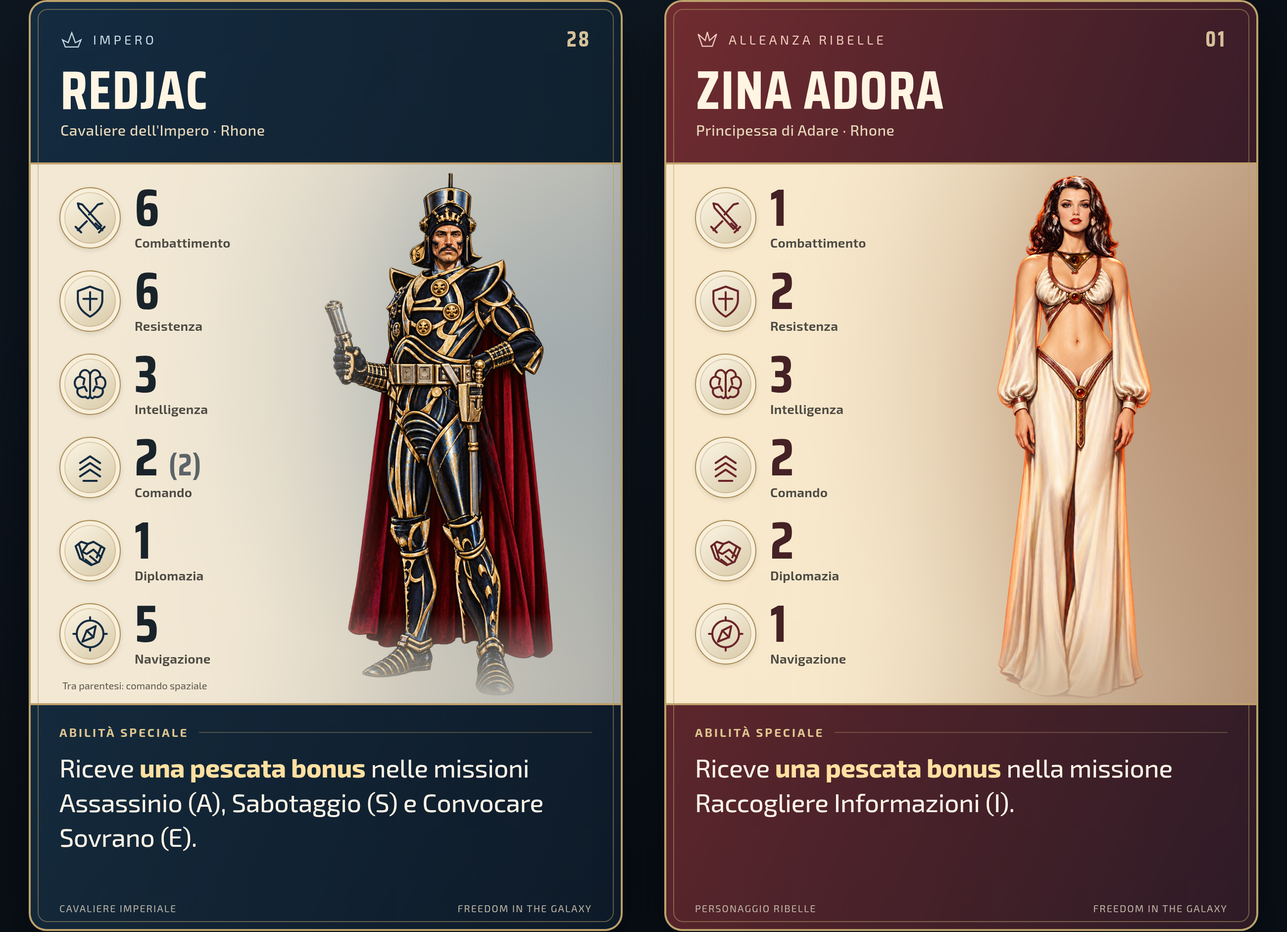
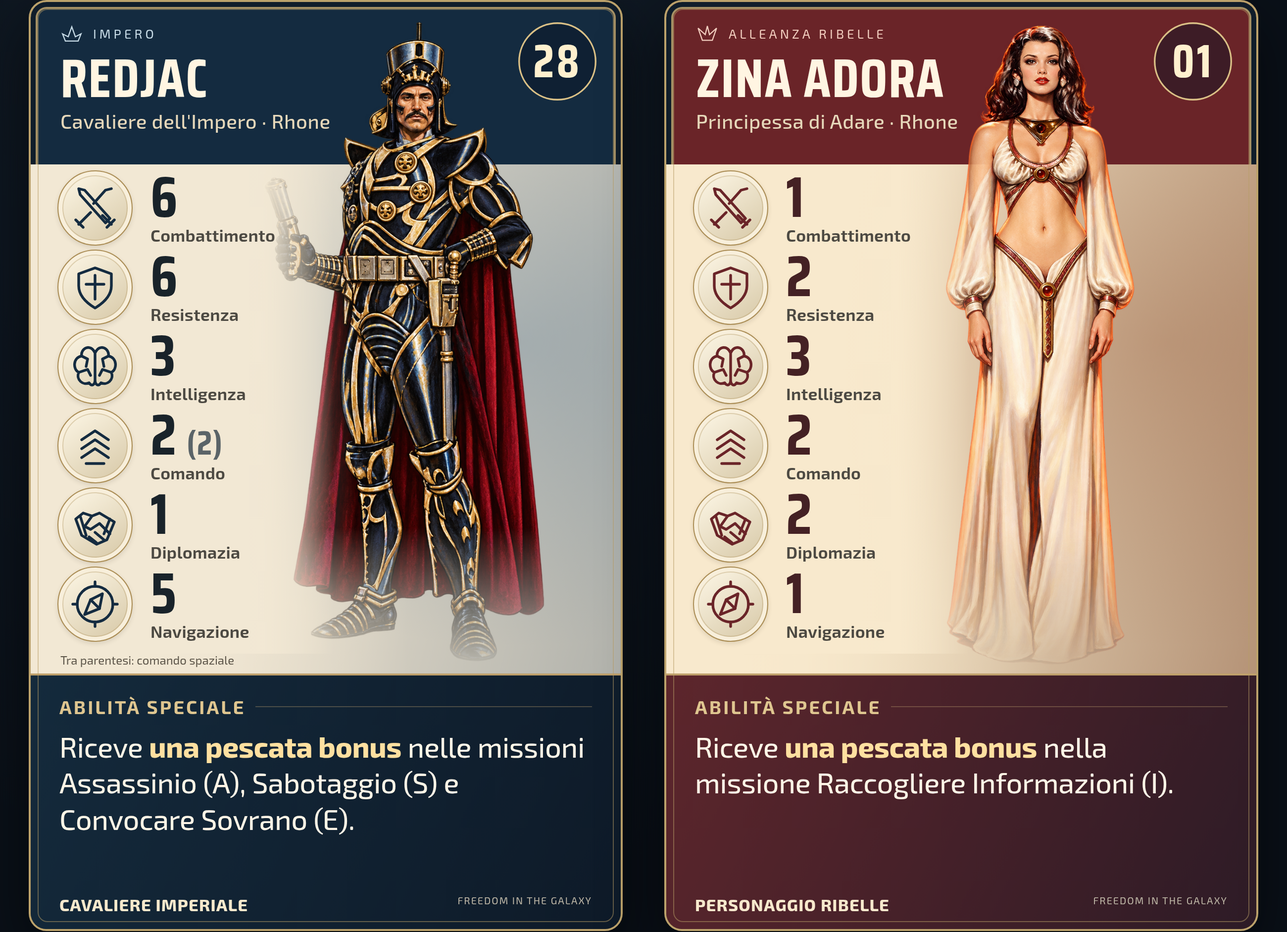
[pubblica] Ingrandisce icone e testi delle carte ed estende le figure

diff --git a/reborn/carte/index.html b/reborn/carte/index.html
@@ -1,7 +1,7 @@
-<!doctype html><html lang="it"><head><meta charset="utf-8"><meta name="viewport" content="width=device-width,initial-scale=1"><link rel="icon" href="data:,"><title>Carte personaggio · Reborn</title><link rel="stylesheet" href="cards.css?v=33281847b227"></head><body><main class="page"><header class="page-head"><div><div class="eyebrow">Freedom in the Galaxy · Reborn</div><h1>Le carte personaggio</h1></div><p>Due esempi della nuova veste grafica.<br>Valori e abilità delle carte del gioco.</p></header><div class="pair"><div class="card-shell"><article class="card imperial" id="redjac" aria-label="Carta di Redjac">
-<header class="card-top"><div class="faction-line"><svg class="faction-symbol" viewBox="0 0 32 32" aria-hidden="true"><path d="M3 17l8 4 5-14 5 14 8-4-4 10H7z"/></svg><span>Impero</span><span class="card-number">28</span></div><h2 class="card-name">Redjac</h2><div class="card-title">Cavaliere dell&#x27;Impero · Rhone</div></header>
-<div class="hero"><img class="figure" src="assets/redjac.png" alt="Redjac, figura intera"><ul class="stats"><li class="stat" data-stat="combattimento" aria-label="Combattimento 6"><span class="stat-icon"><svg viewBox="0 0 32 32" aria-hidden="true"><path d="M5 3l4 1 17 19-3 3L6 7zM3 24l5 5m-3-2 6-6M27 3l-4 1-8 9m-2 6L6 26m23-2-5 5m3-2-6-6"/></svg></span><span class="stat-text"><span class="stat-value">6</span><span class="stat-label">Combattimento</span></span></li><li class="stat" data-stat="resistenza" aria-label="Resistenza 6"><span class="stat-icon"><svg viewBox="0 0 32 32" aria-hidden="true"><path d="M16 3l11 4v8c0 7-6 12-11 15C11 27 5 22 5 15V7z"/><path d="M16 8v16M10 14h12"/></svg></span><span class="stat-text"><span class="stat-value">6</span><span class="stat-label">Resistenza</span></span></li><li class="stat" data-stat="intelligenza" aria-label="Intelligenza 3"><span class="stat-icon"><svg viewBox="0 0 32 32" aria-hidden="true"><path d="M16 7c-3-7-10-3-9 2-6 1-6 9-2 11-2 5 3 9 7 7 2 3 4 1 4-2V7zM16 7c3-7 10-3 9 2 6 1 6 9 2 11 2 5-3 9-7 7-2 3-4 1-4-2"/><path d="M7 9l4 2-1 5M5 20l6-2 2 4M25 9l-4 2 1 5M27 20l-6-2-2 4"/></svg></span><span class="stat-text"><span class="stat-value">3</span><span class="stat-label">Intelligenza</span></span></li><li class="stat" data-stat="comando" aria-label="Comando 2, comando spaziale 2"><span class="stat-icon"><svg viewBox="0 0 32 32" aria-hidden="true"><path d="M7 12l9-6 9 6M7 18l9-6 9 6M7 24l9-6 9 6"/><path d="M10 28h12"/></svg></span><span class="stat-text"><span class="stat-value">2<span class="space-command">(2)</span></span><span class="stat-label">Comando</span></span></li><li class="stat" data-stat="diplomazia" aria-label="Diplomazia 1"><span class="stat-icon"><svg viewBox="0 0 32 32" aria-hidden="true"><path d="M3 12l5-4 6 2 5-2 10 6-5 12-7 3-10-6zM14 10l-5 7 4 2 6-4 7 7M6 10l4 13M26 12l-4 10M12 24l5 4M16 21l6 5"/></svg></span><span class="stat-text"><span class="stat-value">1</span><span class="stat-label">Diplomazia</span></span></li><li class="stat" data-stat="navigazione" aria-label="Navigazione 5"><span class="stat-icon"><svg viewBox="0 0 32 32" aria-hidden="true"><circle cx="16" cy="16" r="12"/><path d="M21 9l-2 10-10 4 4-10zM16 1v3m0 24v3M1 16h3m24 0h3"/><path d="M13 13l6 6"/></svg></span><span class="stat-text"><span class="stat-value">5</span><span class="stat-label">Navigazione</span></span></li></ul><div class="command-note">Tra parentesi: comando spaziale</div></div>
+<!doctype html><html lang="it"><head><meta charset="utf-8"><meta name="viewport" content="width=device-width,initial-scale=1"><link rel="icon" href="data:,"><title>Carte personaggio · Reborn</title><link rel="stylesheet" href="cards.css?v=eb22ec5dc598"></head><body><main class="page"><header class="page-head"><div><div class="eyebrow">Freedom in the Galaxy · Reborn</div><h1>Le carte personaggio</h1></div><p>Due esempi della nuova veste grafica.<br>Valori e abilità delle carte del gioco.</p></header><div class="pair"><div class="card-shell"><article class="card imperial" id="redjac" aria-label="Carta di Redjac">
+<header class="card-top"><div class="faction-line"><svg class="faction-symbol" viewBox="0 0 32 32" aria-hidden="true"><path d="M3 17l8 4 5-14 5 14 8-4-4 10H7z"/></svg><span>Impero</span><svg class="card-number" viewBox="0 0 100 100" role="img" aria-label="Carta numero 28"><circle cx="50" cy="50" r="46"/><text x="50" y="50" text-anchor="middle">28</text></svg></div><h2 class="card-name">Redjac</h2><div class="card-title">Cavaliere dell&#x27;Impero · Rhone</div></header>
+<img class="figure" src="assets/redjac.png" alt="Redjac, figura intera"><div class="hero"><ul class="stats"><li class="stat" data-stat="combattimento" aria-label="Combattimento 6"><span class="stat-icon"><svg viewBox="0 0 32 32" aria-hidden="true"><path d="M5 3l4 1 17 19-3 3L6 7zM3 24l5 5m-3-2 6-6M27 3l-4 1-8 9m-2 6L6 26m23-2-5 5m3-2-6-6"/></svg></span><span class="stat-text"><span class="stat-value">6</span><span class="stat-label">Combattimento</span></span></li><li class="stat" data-stat="resistenza" aria-label="Resistenza 6"><span class="stat-icon"><svg viewBox="0 0 32 32" aria-hidden="true"><path d="M16 3l11 4v8c0 7-6 12-11 15C11 27 5 22 5 15V7z"/><path d="M16 8v16M10 14h12"/></svg></span><span class="stat-text"><span class="stat-value">6</span><span class="stat-label">Resistenza</span></span></li><li class="stat" data-stat="intelligenza" aria-label="Intelligenza 3"><span class="stat-icon"><svg viewBox="0 0 32 32" aria-hidden="true"><path d="M16 7c-3-7-10-3-9 2-6 1-6 9-2 11-2 5 3 9 7 7 2 3 4 1 4-2V7zM16 7c3-7 10-3 9 2 6 1 6 9 2 11 2 5-3 9-7 7-2 3-4 1-4-2"/><path d="M7 9l4 2-1 5M5 20l6-2 2 4M25 9l-4 2 1 5M27 20l-6-2-2 4"/></svg></span><span class="stat-text"><span class="stat-value">3</span><span class="stat-label">Intelligenza</span></span></li><li class="stat" data-stat="comando" aria-label="Comando 2, comando spaziale 2"><span class="stat-icon"><svg viewBox="0 0 32 32" aria-hidden="true"><path d="M7 12l9-6 9 6M7 18l9-6 9 6M7 24l9-6 9 6"/><path d="M10 28h12"/></svg></span><span class="stat-text"><span class="stat-value">2<span class="space-command">(2)</span></span><span class="stat-label">Comando</span></span></li><li class="stat" data-stat="diplomazia" aria-label="Diplomazia 1"><span class="stat-icon"><svg viewBox="0 0 32 32" aria-hidden="true"><path d="M3 12l5-4 6 2 5-2 10 6-5 12-7 3-10-6zM14 10l-5 7 4 2 6-4 7 7M6 10l4 13M26 12l-4 10M12 24l5 4M16 21l6 5"/></svg></span><span class="stat-text"><span class="stat-value">1</span><span class="stat-label">Diplomazia</span></span></li><li class="stat" data-stat="navigazione" aria-label="Navigazione 5"><span class="stat-icon"><svg viewBox="0 0 32 32" aria-hidden="true"><circle cx="16" cy="16" r="12"/><path d="M21 9l-2 10-10 4 4-10zM16 1v3m0 24v3M1 16h3m24 0h3"/><path d="M13 13l6 6"/></svg></span><span class="stat-text"><span class="stat-value">5</span><span class="stat-label">Navigazione</span></span></li></ul><div class="command-note">Tra parentesi: comando spaziale</div></div>
 <section class="ability"><h3 class="ability-label">ABILITÀ SPECIALE</h3><p class="ability-text">Riceve <strong>una pescata bonus</strong> nelle missioni Assassinio (A), Sabotaggio (S) e Convocare Sovrano (E).</p><div class="card-meta"><span>Cavaliere imperiale</span><span>Freedom in the Galaxy</span></div></section></article></div><div class="card-shell"><article class="card rebel" id="zina-adora" aria-label="Carta di Zina Adora">
-<header class="card-top"><div class="faction-line"><svg class="faction-symbol" viewBox="0 0 32 32" aria-hidden="true"><path d="M3 9l10 9 3-12 3 12 10-9-6 17H9z"/></svg><span>Alleanza ribelle</span><span class="card-number">01</span></div><h2 class="card-name">Zina Adora</h2><div class="card-title">Principessa di Adare · Rhone</div></header>
-<div class="hero"><img class="figure" src="assets/zina-adora.png" alt="Zina Adora, figura intera"><ul class="stats"><li class="stat" data-stat="combattimento" aria-label="Combattimento 1"><span class="stat-icon"><svg viewBox="0 0 32 32" aria-hidden="true"><path d="M5 3l4 1 17 19-3 3L6 7zM3 24l5 5m-3-2 6-6M27 3l-4 1-8 9m-2 6L6 26m23-2-5 5m3-2-6-6"/></svg></span><span class="stat-text"><span class="stat-value">1</span><span class="stat-label">Combattimento</span></span></li><li class="stat" data-stat="resistenza" aria-label="Resistenza 2"><span class="stat-icon"><svg viewBox="0 0 32 32" aria-hidden="true"><path d="M16 3l11 4v8c0 7-6 12-11 15C11 27 5 22 5 15V7z"/><path d="M16 8v16M10 14h12"/></svg></span><span class="stat-text"><span class="stat-value">2</span><span class="stat-label">Resistenza</span></span></li><li class="stat" data-stat="intelligenza" aria-label="Intelligenza 3"><span class="stat-icon"><svg viewBox="0 0 32 32" aria-hidden="true"><path d="M16 7c-3-7-10-3-9 2-6 1-6 9-2 11-2 5 3 9 7 7 2 3 4 1 4-2V7zM16 7c3-7 10-3 9 2 6 1 6 9 2 11 2 5-3 9-7 7-2 3-4 1-4-2"/><path d="M7 9l4 2-1 5M5 20l6-2 2 4M25 9l-4 2 1 5M27 20l-6-2-2 4"/></svg></span><span class="stat-text"><span class="stat-value">3</span><span class="stat-label">Intelligenza</span></span></li><li class="stat" data-stat="comando" aria-label="Comando 2"><span class="stat-icon"><svg viewBox="0 0 32 32" aria-hidden="true"><path d="M7 12l9-6 9 6M7 18l9-6 9 6M7 24l9-6 9 6"/><path d="M10 28h12"/></svg></span><span class="stat-text"><span class="stat-value">2</span><span class="stat-label">Comando</span></span></li><li class="stat" data-stat="diplomazia" aria-label="Diplomazia 2"><span class="stat-icon"><svg viewBox="0 0 32 32" aria-hidden="true"><path d="M3 12l5-4 6 2 5-2 10 6-5 12-7 3-10-6zM14 10l-5 7 4 2 6-4 7 7M6 10l4 13M26 12l-4 10M12 24l5 4M16 21l6 5"/></svg></span><span class="stat-text"><span class="stat-value">2</span><span class="stat-label">Diplomazia</span></span></li><li class="stat" data-stat="navigazione" aria-label="Navigazione 1"><span class="stat-icon"><svg viewBox="0 0 32 32" aria-hidden="true"><circle cx="16" cy="16" r="12"/><path d="M21 9l-2 10-10 4 4-10zM16 1v3m0 24v3M1 16h3m24 0h3"/><path d="M13 13l6 6"/></svg></span><span class="stat-text"><span class="stat-value">1</span><span class="stat-label">Navigazione</span></span></li></ul></div>
-<section class="ability"><h3 class="ability-label">ABILITÀ SPECIALE</h3><p class="ability-text">Riceve <strong>una pescata bonus</strong> nella missione Raccogliere Informazioni (I).</p><div class="card-meta"><span>Personaggio ribelle</span><span>Freedom in the Galaxy</span></div></section></article></div></div><nav class="download-links"><a href="redjac.png" download>Scarica Redjac</a><a href="zina-adora.png" download>Scarica Zina Adora</a><a href="../atlante/">Atlante dei pianeti</a></nav><p class="footer">Sei caratteristiche: Combattimento, Resistenza, Intelligenza, Comando, Diplomazia e Navigazione. Il valore tra parentesi indica il comando spaziale.</p></main><script>const fit=()=>document.querySelectorAll('.card-shell').forEach(el=>el.style.setProperty('--card-scale',Math.min(1,el.clientWidth/600)));new ResizeObserver(fit).observe(document.body);fit();</script></body></html>
+<header class="card-top"><div class="faction-line"><svg class="faction-symbol" viewBox="0 0 32 32" aria-hidden="true"><path d="M3 9l10 9 3-12 3 12 10-9-6 17H9z"/></svg><span>Alleanza ribelle</span><svg class="card-number" viewBox="0 0 100 100" role="img" aria-label="Carta numero 1"><circle cx="50" cy="50" r="46"/><text x="50" y="50" text-anchor="middle">01</text></svg></div><h2 class="card-name">Zina Adora</h2><div class="card-title">Principessa di Adare · Rhone</div></header>
+<img class="figure" src="assets/zina-adora.png" alt="Zina Adora, figura intera"><div class="hero"><ul class="stats"><li class="stat" data-stat="combattimento" aria-label="Combattimento 1"><span class="stat-icon"><svg viewBox="0 0 32 32" aria-hidden="true"><path d="M5 3l4 1 17 19-3 3L6 7zM3 24l5 5m-3-2 6-6M27 3l-4 1-8 9m-2 6L6 26m23-2-5 5m3-2-6-6"/></svg></span><span class="stat-text"><span class="stat-value">1</span><span class="stat-label">Combattimento</span></span></li><li class="stat" data-stat="resistenza" aria-label="Resistenza 2"><span class="stat-icon"><svg viewBox="0 0 32 32" aria-hidden="true"><path d="M16 3l11 4v8c0 7-6 12-11 15C11 27 5 22 5 15V7z"/><path d="M16 8v16M10 14h12"/></svg></span><span class="stat-text"><span class="stat-value">2</span><span class="stat-label">Resistenza</span></span></li><li class="stat" data-stat="intelligenza" aria-label="Intelligenza 3"><span class="stat-icon"><svg viewBox="0 0 32 32" aria-hidden="true"><path d="M16 7c-3-7-10-3-9 2-6 1-6 9-2 11-2 5 3 9 7 7 2 3 4 1 4-2V7zM16 7c3-7 10-3 9 2 6 1 6 9 2 11 2 5-3 9-7 7-2 3-4 1-4-2"/><path d="M7 9l4 2-1 5M5 20l6-2 2 4M25 9l-4 2 1 5M27 20l-6-2-2 4"/></svg></span><span class="stat-text"><span class="stat-value">3</span><span class="stat-label">Intelligenza</span></span></li><li class="stat" data-stat="comando" aria-label="Comando 2"><span class="stat-icon"><svg viewBox="0 0 32 32" aria-hidden="true"><path d="M7 12l9-6 9 6M7 18l9-6 9 6M7 24l9-6 9 6"/><path d="M10 28h12"/></svg></span><span class="stat-text"><span class="stat-value">2</span><span class="stat-label">Comando</span></span></li><li class="stat" data-stat="diplomazia" aria-label="Diplomazia 2"><span class="stat-icon"><svg viewBox="0 0 32 32" aria-hidden="true"><path d="M3 12l5-4 6 2 5-2 10 6-5 12-7 3-10-6zM14 10l-5 7 4 2 6-4 7 7M6 10l4 13M26 12l-4 10M12 24l5 4M16 21l6 5"/></svg></span><span class="stat-text"><span class="stat-value">2</span><span class="stat-label">Diplomazia</span></span></li><li class="stat" data-stat="navigazione" aria-label="Navigazione 1"><span class="stat-icon"><svg viewBox="0 0 32 32" aria-hidden="true"><circle cx="16" cy="16" r="12"/><path d="M21 9l-2 10-10 4 4-10zM16 1v3m0 24v3M1 16h3m24 0h3"/><path d="M13 13l6 6"/></svg></span><span class="stat-text"><span class="stat-value">1</span><span class="stat-label">Navigazione</span></span></li></ul></div>
+<section class="ability"><h3 class="ability-label">ABILITÀ SPECIALE</h3><p class="ability-text">Riceve <strong>una pescata bonus</strong> nella missione Raccogliere Informazioni (I).</p><div class="card-meta"><span>Personaggio ribelle</span><span>Freedom in the Galaxy</span></div></section></article></div></div><nav class="download-links"><a href="redjac.png?v=eb22ec5dc598" download>Scarica Redjac</a><a href="zina-adora.png?v=eb22ec5dc598" download>Scarica Zina Adora</a><a href="../atlante/">Atlante dei pianeti</a></nav><p class="footer">Sei caratteristiche: Combattimento, Resistenza, Intelligenza, Comando, Diplomazia e Navigazione. Il valore tra parentesi indica il comando spaziale.</p></main><script>const fit=()=>document.querySelectorAll('.card-shell').forEach(el=>el.style.setProperty('--card-scale',Math.min(1,el.clientWidth/600)));new ResizeObserver(fit).observe(document.body);fit();document.fonts.ready.then(()=>{document.querySelectorAll('.card-number text').forEach(t=>{const b=t.getBBox();t.setAttribute('transform',`translate(${50-b.x-b.width/2} ${50-b.y-b.height/2})`)});window.__cardsReady=true;});</script></body></html>

diff --git a/reborn/carte/cards.css b/reborn/carte/cards.css
@@ -1,2 +1,2 @@
 @font-face{font-family:Exo;src:url('fonts/Exo2.ttf')}@font-face{font-family:Saira;src:url('fonts/SairaCondensed-Bold.ttf');font-weight:700}
-*{box-sizing:border-box}body{margin:0;background:#0a1018;color:#f3ebdb;font-family:Exo,system-ui,sans-serif;background-image:radial-gradient(ellipse at 30% 15%,#1c2c3c70,transparent 60%)}.page{max-width:1360px;margin:auto;padding:36px 30px 56px}.page-head{display:flex;align-items:end;justify-content:space-between;gap:24px;margin-bottom:30px}.eyebrow{font-size:12px;letter-spacing:3px;text-transform:uppercase;color:#baac8e}.page-head h1{font-family:Saira,sans-serif;font-size:42px;line-height:1.1;margin:10px 0 0;font-weight:700}.page-head p{font-size:14px;line-height:1.6;color:#a8b5bd;margin:0;max-width:440px}.pair{display:grid;grid-template-columns:repeat(2,600px);gap:42px;justify-content:center}.card{--ink:#142b40;--light:#c8dce7;--glow:#416b88;--mist:#e9e0ce;position:relative;width:600px;height:940px;border:2px solid #bca26b;border-radius:18px;overflow:hidden;isolation:isolate;background:#e9e0ce;box-shadow:0 24px 60px #0008,inset 0 0 0 5px #101d2a,inset 0 0 0 7px #a69165;color:#211d1a}.card.rebel{--ink:#6a2428;--light:#f2cebf;--glow:#a64d43;--mist:#f0ddbd}.card:after{content:"";position:absolute;inset:7px;border:1px solid #b89e6680;border-radius:10px;pointer-events:none;z-index:10}.card-top{position:relative;z-index:3;background:linear-gradient(110deg,var(--ink),#10202e);height:164px;padding:20px 30px 14px;border-bottom:2px solid #c3a36d;color:#fff5e2}.rebel .card-top{background:linear-gradient(110deg,#702c30,#381c28)}.faction-line{display:flex;align-items:center;gap:10px;font-size:13px;line-height:20px;letter-spacing:3px;color:var(--light);text-transform:uppercase}.faction-symbol{width:23px;height:23px;fill:none;stroke:currentColor;stroke-width:1.6}.card-number{margin-left:auto;font:700 22px Saira;letter-spacing:2px;color:#d4c29a}.card-name{font:700 55px/.95 Saira,sans-serif;letter-spacing:1px;margin:8px 0 5px;text-transform:uppercase}.card-title{font-size:15px;font-weight:500;color:#e6d8ba;letter-spacing:.3px}.hero{height:544px;position:relative;background:radial-gradient(ellipse at 83% 35%,#69859b65,transparent 65%),linear-gradient(105deg,#f4ebd8 0%,#e7decc 45%,#b1b2ac 100%);overflow:hidden}.rebel .hero{background:radial-gradient(ellipse at 85% 35%,#9c654660,transparent 65%),linear-gradient(105deg,#fff0d4,#ead9bb 45%,#b59377)}.hero:before{content:"";position:absolute;inset:0;z-index:1;background:linear-gradient(90deg,#f2e8d4 0%,#f2e8d4ee 22%,#f2e8d400 64%)}.rebel .hero:before{background:linear-gradient(90deg,#f8e9cd 0%,#f8e9cdee 22%,#f8e9cd00 65%)}.figure{position:absolute;right:-4px;top:5px;width:380px;height:540px;object-fit:contain;object-position:center top;z-index:1;mask-image:linear-gradient(to right,transparent 0%,#000 35%),linear-gradient(to bottom,#000 0%,#000 83%,transparent 100%);mask-composite:intersect}.stats{position:relative;z-index:2;width:240px;padding:14px 0 0 29px;display:flex;flex-direction:column;gap:5px;margin:0;list-style:none}.stat{height:79px;display:flex;align-items:center;gap:14px}.stat-icon{width:62px;height:62px;flex-shrink:0;display:grid;place-items:center;border:1px solid #aa8c54;border-radius:50%;background:linear-gradient(145deg,#fff9e9,#d5c6a4);box-shadow:inset 0 0 0 4px #f8efdb,inset 0 0 0 5px #aa8c5455,0 2px 5px #3f342522;color:var(--ink)}.stat-icon svg{width:36px;height:36px;fill:none;stroke:currentColor;stroke-width:1.8;stroke-linecap:round;stroke-linejoin:round}.stat-text{display:flex;flex-direction:column;justify-content:center;min-width:0}.stat-value{display:flex;gap:10px;align-items:baseline;font:700 53px/.85 Saira,sans-serif;color:#19232a;letter-spacing:.5px;font-variant-numeric:tabular-nums}.rebel .stat-value{color:#442124}.space-command{font-size:31px;color:#5b6468}.stat-label{font-size:13px;line-height:1.1;font-weight:650;letter-spacing:.15px;margin-top:6px;color:#4c4942}.command-note{position:absolute;bottom:12px;left:32px;z-index:3;font-size:10px;color:#5c5549}.ability{position:relative;z-index:4;height:230px;padding:20px 29px 18px;background:linear-gradient(115deg,#142a3c,#0e1a28);border-top:2px solid #bfa06b;color:#fff6e7}.rebel .ability{background:linear-gradient(115deg,#5d262c,#2d1b26)}.ability-label{font-size:12px;letter-spacing:2px;color:#dfc690;margin:0 0 11px;display:flex;align-items:center;gap:10px}.ability-label:after{content:"";flex:1;height:1px;background:#c2a67355}.ability-text{font-family:Exo,sans-serif;font-size:26px;font-weight:450;line-height:1.35;margin:0;letter-spacing:-.25px}.ability-text strong{font-weight:750;color:#ffe0a0}.card-meta{position:absolute;bottom:17px;left:29px;right:29px;display:flex;justify-content:space-between;gap:12px;font-size:10px;letter-spacing:1px;text-transform:uppercase;color:#c1baa9}.download-links{display:flex;justify-content:center;gap:26px;flex-wrap:wrap;margin:28px 0 0}.download-links a{color:#c4cabb;font-size:13px;text-underline-offset:5px}.footer{margin:25px auto 0;max-width:1242px;color:#819198;font-size:12px;line-height:1.6}@media(max-width:1280px){.pair{grid-template-columns:600px}.page-head{max-width:600px;margin-left:auto;margin-right:auto}.page-head p{display:none}}@media(max-width:650px){.page{padding:24px 10px}.pair{display:block}.card-shell{width:100%;aspect-ratio:600/940;margin-bottom:22px;position:relative}.card-shell .card{transform-origin:top left;transform:scale(var(--card-scale,.6))}.page-head{padding:0 10px}.page-head h1{font-size:36px}.footer{padding:0 10px}.download-links{margin-top:8px}}
+*{box-sizing:border-box}body{margin:0;background:#0a1018;color:#f3ebdb;font-family:Exo,system-ui,sans-serif;background-image:radial-gradient(ellipse at 30% 15%,#1c2c3c70,transparent 60%)}.page{max-width:1360px;margin:auto;padding:36px 30px 56px}.page-head{display:flex;align-items:end;justify-content:space-between;gap:24px;margin-bottom:30px}.eyebrow{font-size:12px;letter-spacing:3px;text-transform:uppercase;color:#baac8e}.page-head h1{font-family:Saira,sans-serif;font-size:42px;line-height:1.1;margin:10px 0 0;font-weight:700}.page-head p{font-size:14px;line-height:1.6;color:#a8b5bd;margin:0;max-width:440px}.pair{display:grid;grid-template-columns:repeat(auto-fit,600px);gap:42px;justify-content:center}.card{--ink:#142b40;--light:#c8dce7;--glow:#416b88;--mist:#e9e0ce;position:relative;width:600px;height:940px;border:2px solid #bca26b;border-radius:18px;overflow:hidden;isolation:isolate;background:var(--ink);box-shadow:0 24px 60px #0008,inset 0 0 0 5px #101d2a,inset 0 0 0 7px #a69165;color:#211d1a}.card.rebel{--ink:#6a2428;--light:#f2cebf;--glow:#a64d43;--mist:#f0ddbd}.card:after{content:"";position:absolute;inset:7px;border:1px solid #b89e6680;border-radius:10px;pointer-events:none;z-index:10}.card-top{position:relative;z-index:4;background:transparent;height:164px;padding:20px 30px 14px;border-bottom:0;color:#fff5e2}.rebel .card-top{background:transparent}.faction-line{display:flex;align-items:center;gap:10px;font-size:13px;line-height:20px;letter-spacing:3px;color:var(--light);text-transform:uppercase}.faction-symbol{width:23px;height:23px;fill:none;stroke:currentColor;stroke-width:1.6}.card-number{position:absolute;right:22px;top:18px;width:84px;height:84px;overflow:visible}.card-number circle{fill:#0b142477;stroke:#dac086;stroke-width:2}.card-number text{font:700 56px Saira;fill:#fff0ce;font-variant-numeric:tabular-nums}.card-name{font:700 55px/.95 Saira,sans-serif;letter-spacing:1px;margin:8px 0 5px;text-transform:uppercase}.card-title{max-width:330px;font-size:20px;line-height:1.22;font-weight:500;color:#e6d8ba;letter-spacing:.3px}.hero{height:514px;position:relative;background:radial-gradient(ellipse at 83% 35%,#69859b65,transparent 65%),linear-gradient(105deg,#f4ebd8 0%,#e7decc 45%,#b1b2ac 100%);overflow:hidden}.rebel .hero{background:radial-gradient(ellipse at 85% 35%,#9c654660,transparent 65%),linear-gradient(105deg,#fff0d4,#ead9bb 45%,#b59377)}.hero:before{content:"";position:absolute;inset:0;z-index:1;background:linear-gradient(90deg,#f2e8d4 0%,#f2e8d4ee 22%,#f2e8d400 64%)}.rebel .hero:before{background:linear-gradient(90deg,#f8e9cd 0%,#f8e9cdee 22%,#f8e9cd00 65%)}.figure{position:absolute;right:-14px;top:16px;width:470px;height:660px;object-fit:contain;object-position:center top;z-index:3;mask-image:linear-gradient(to right,transparent 0%,#000 40%),linear-gradient(to bottom,#000 0%,#000 78%,transparent 100%);mask-composite:intersect}.stats{position:relative;z-index:6;width:286px;padding:4px 0 0 27px;display:flex;flex-direction:column;gap:0;margin:0;list-style:none}.stats:before{content:"";position:absolute;inset:0 -20px -10px -1px;z-index:-1;background:linear-gradient(90deg,#f2e8d4 0%,#f2e8d4f5 77%,#f2e8d400 100%)}.rebel .stats:before{background:linear-gradient(90deg,#f8e9cd 0%,#f8e9cdf5 77%,#f8e9cd00 100%)}.stat{height:80px;display:flex;align-items:center;gap:18px}.stat-icon{width:76px;height:76px;flex-shrink:0;display:grid;place-items:center;border:1px solid #aa8c54;border-radius:50%;background:linear-gradient(145deg,#fff9e9,#d5c6a4);box-shadow:inset 0 0 0 4px #f8efdb,inset 0 0 0 5px #aa8c5455,0 2px 5px #3f342522;color:var(--ink)}.stat-icon svg{width:48px;height:48px;fill:none;stroke:currentColor;stroke-width:1.8;stroke-linecap:round;stroke-linejoin:round}.stat-text{display:flex;flex-direction:column;justify-content:center;min-width:0}.stat-value{display:flex;gap:10px;align-items:baseline;font:700 58px/.85 Saira,sans-serif;color:#19232a;letter-spacing:.5px;font-variant-numeric:tabular-nums}.rebel .stat-value{color:#442124}.space-command{font-size:34px;color:#5b6468}.stat-label{font-size:17px;line-height:1.12;font-weight:650;letter-spacing:.15px;margin-top:5px;color:#4c4942}.command-note{position:absolute;bottom:7px;left:30px;z-index:7;font-size:12px;color:#5c5549}.ability{position:relative;z-index:8;height:260px;padding:20px 29px 18px;background:linear-gradient(115deg,#142a3c,#0e1a28);border-top:2px solid #bfa06b;color:#fff6e7}.rebel .ability{background:linear-gradient(115deg,#5d262c,#2d1b26)}.ability-label{font-size:19px;letter-spacing:2px;color:#dfc690;margin:0 0 11px;display:flex;align-items:center;gap:10px}.ability-label:after{content:"";flex:1;height:1px;background:#c2a67355}.ability-text{font-family:Exo,sans-serif;font-size:29px;font-weight:450;line-height:1.25;margin:0;letter-spacing:-.25px}.ability-text strong{font-weight:750;color:#ffe0a0}.card-meta{position:absolute;bottom:17px;left:29px;right:29px;display:flex;justify-content:space-between;gap:12px;font-size:10px;letter-spacing:1px;text-transform:uppercase;color:#c1baa9}.card-meta span:first-child{font-size:17px;font-weight:750;letter-spacing:.6px;color:#f7e9cd}.download-links{display:flex;justify-content:center;gap:26px;flex-wrap:wrap;margin:28px 0 0}.download-links a{color:#c4cabb;font-size:13px;text-underline-offset:5px}.footer{margin:25px auto 0;max-width:1242px;color:#819198;font-size:12px;line-height:1.6}@media(max-width:1280px){.pair{grid-template-columns:600px}.page-head{max-width:600px;margin-left:auto;margin-right:auto}.page-head p{display:none}}@media(max-width:650px){.page{padding:24px 10px}.pair{display:block}.card-shell{width:100%;aspect-ratio:600/940;margin-bottom:22px;position:relative}.card-shell .card{transform-origin:top left;transform:scale(var(--card-scale,.6))}.page-head{padding:0 10px}.page-head h1{font-size:36px}.footer{padding:0 10px}.download-links{margin-top:8px}}

diff --git a/tools/templates/cards/cards.css b/tools/templates/cards/cards.css
@@ -1,2 +1,2 @@
 @font-face{font-family:Exo;src:url('fonts/Exo2.ttf')}@font-face{font-family:Saira;src:url('fonts/SairaCondensed-Bold.ttf');font-weight:700}
-*{box-sizing:border-box}body{margin:0;background:#0a1018;color:#f3ebdb;font-family:Exo,system-ui,sans-serif;background-image:radial-gradient(ellipse at 30% 15%,#1c2c3c70,transparent 60%)}.page{max-width:1360px;margin:auto;padding:36px 30px 56px}.page-head{display:flex;align-items:end;justify-content:space-between;gap:24px;margin-bottom:30px}.eyebrow{font-size:12px;letter-spacing:3px;text-transform:uppercase;color:#baac8e}.page-head h1{font-family:Saira,sans-serif;font-size:42px;line-height:1.1;margin:10px 0 0;font-weight:700}.page-head p{font-size:14px;line-height:1.6;color:#a8b5bd;margin:0;max-width:440px}.pair{display:grid;grid-template-columns:repeat(2,600px);gap:42px;justify-content:center}.card{--ink:#142b40;--light:#c8dce7;--glow:#416b88;--mist:#e9e0ce;position:relative;width:600px;height:940px;border:2px solid #bca26b;border-radius:18px;overflow:hidden;isolation:isolate;background:#e9e0ce;box-shadow:0 24px 60px #0008,inset 0 0 0 5px #101d2a,inset 0 0 0 7px #a69165;color:#211d1a}.card.rebel{--ink:#6a2428;--light:#f2cebf;--glow:#a64d43;--mist:#f0ddbd}.card:after{content:"";position:absolute;inset:7px;border:1px solid #b89e6680;border-radius:10px;pointer-events:none;z-index:10}.card-top{position:relative;z-index:3;background:linear-gradient(110deg,var(--ink),#10202e);height:164px;padding:20px 30px 14px;border-bottom:2px solid #c3a36d;color:#fff5e2}.rebel .card-top{background:linear-gradient(110deg,#702c30,#381c28)}.faction-line{display:flex;align-items:center;gap:10px;font-size:13px;line-height:20px;letter-spacing:3px;color:var(--light);text-transform:uppercase}.faction-symbol{width:23px;height:23px;fill:none;stroke:currentColor;stroke-width:1.6}.card-number{margin-left:auto;font:700 22px Saira;letter-spacing:2px;color:#d4c29a}.card-name{font:700 55px/.95 Saira,sans-serif;letter-spacing:1px;margin:8px 0 5px;text-transform:uppercase}.card-title{font-size:15px;font-weight:500;color:#e6d8ba;letter-spacing:.3px}.hero{height:544px;position:relative;background:radial-gradient(ellipse at 83% 35%,#69859b65,transparent 65%),linear-gradient(105deg,#f4ebd8 0%,#e7decc 45%,#b1b2ac 100%);overflow:hidden}.rebel .hero{background:radial-gradient(ellipse at 85% 35%,#9c654660,transparent 65%),linear-gradient(105deg,#fff0d4,#ead9bb 45%,#b59377)}.hero:before{content:"";position:absolute;inset:0;z-index:1;background:linear-gradient(90deg,#f2e8d4 0%,#f2e8d4ee 22%,#f2e8d400 64%)}.rebel .hero:before{background:linear-gradient(90deg,#f8e9cd 0%,#f8e9cdee 22%,#f8e9cd00 65%)}.figure{position:absolute;right:-4px;top:5px;width:380px;height:540px;object-fit:contain;object-position:center top;z-index:1;mask-image:linear-gradient(to right,transparent 0%,#000 35%),linear-gradient(to bottom,#000 0%,#000 83%,transparent 100%);mask-composite:intersect}.stats{position:relative;z-index:2;width:240px;padding:14px 0 0 29px;display:flex;flex-direction:column;gap:5px;margin:0;list-style:none}.stat{height:79px;display:flex;align-items:center;gap:14px}.stat-icon{width:62px;height:62px;flex-shrink:0;display:grid;place-items:center;border:1px solid #aa8c54;border-radius:50%;background:linear-gradient(145deg,#fff9e9,#d5c6a4);box-shadow:inset 0 0 0 4px #f8efdb,inset 0 0 0 5px #aa8c5455,0 2px 5px #3f342522;color:var(--ink)}.stat-icon svg{width:36px;height:36px;fill:none;stroke:currentColor;stroke-width:1.8;stroke-linecap:round;stroke-linejoin:round}.stat-text{display:flex;flex-direction:column;justify-content:center;min-width:0}.stat-value{display:flex;gap:10px;align-items:baseline;font:700 53px/.85 Saira,sans-serif;color:#19232a;letter-spacing:.5px;font-variant-numeric:tabular-nums}.rebel .stat-value{color:#442124}.space-command{font-size:31px;color:#5b6468}.stat-label{font-size:13px;line-height:1.1;font-weight:650;letter-spacing:.15px;margin-top:6px;color:#4c4942}.command-note{position:absolute;bottom:12px;left:32px;z-index:3;font-size:10px;color:#5c5549}.ability{position:relative;z-index:4;height:230px;padding:20px 29px 18px;background:linear-gradient(115deg,#142a3c,#0e1a28);border-top:2px solid #bfa06b;color:#fff6e7}.rebel .ability{background:linear-gradient(115deg,#5d262c,#2d1b26)}.ability-label{font-size:12px;letter-spacing:2px;color:#dfc690;margin:0 0 11px;display:flex;align-items:center;gap:10px}.ability-label:after{content:"";flex:1;height:1px;background:#c2a67355}.ability-text{font-family:Exo,sans-serif;font-size:26px;font-weight:450;line-height:1.35;margin:0;letter-spacing:-.25px}.ability-text strong{font-weight:750;color:#ffe0a0}.card-meta{position:absolute;bottom:17px;left:29px;right:29px;display:flex;justify-content:space-between;gap:12px;font-size:10px;letter-spacing:1px;text-transform:uppercase;color:#c1baa9}.download-links{display:flex;justify-content:center;gap:26px;flex-wrap:wrap;margin:28px 0 0}.download-links a{color:#c4cabb;font-size:13px;text-underline-offset:5px}.footer{margin:25px auto 0;max-width:1242px;color:#819198;font-size:12px;line-height:1.6}@media(max-width:1280px){.pair{grid-template-columns:600px}.page-head{max-width:600px;margin-left:auto;margin-right:auto}.page-head p{display:none}}@media(max-width:650px){.page{padding:24px 10px}.pair{display:block}.card-shell{width:100%;aspect-ratio:600/940;margin-bottom:22px;position:relative}.card-shell .card{transform-origin:top left;transform:scale(var(--card-scale,.6))}.page-head{padding:0 10px}.page-head h1{font-size:36px}.footer{padding:0 10px}.download-links{margin-top:8px}}
+*{box-sizing:border-box}body{margin:0;background:#0a1018;color:#f3ebdb;font-family:Exo,system-ui,sans-serif;background-image:radial-gradient(ellipse at 30% 15%,#1c2c3c70,transparent 60%)}.page{max-width:1360px;margin:auto;padding:36px 30px 56px}.page-head{display:flex;align-items:end;justify-content:space-between;gap:24px;margin-bottom:30px}.eyebrow{font-size:12px;letter-spacing:3px;text-transform:uppercase;color:#baac8e}.page-head h1{font-family:Saira,sans-serif;font-size:42px;line-height:1.1;margin:10px 0 0;font-weight:700}.page-head p{font-size:14px;line-height:1.6;color:#a8b5bd;margin:0;max-width:440px}.pair{display:grid;grid-template-columns:repeat(auto-fit,600px);gap:42px;justify-content:center}.card{--ink:#142b40;--light:#c8dce7;--glow:#416b88;--mist:#e9e0ce;position:relative;width:600px;height:940px;border:2px solid #bca26b;border-radius:18px;overflow:hidden;isolation:isolate;background:var(--ink);box-shadow:0 24px 60px #0008,inset 0 0 0 5px #101d2a,inset 0 0 0 7px #a69165;color:#211d1a}.card.rebel{--ink:#6a2428;--light:#f2cebf;--glow:#a64d43;--mist:#f0ddbd}.card:after{content:"";position:absolute;inset:7px;border:1px solid #b89e6680;border-radius:10px;pointer-events:none;z-index:10}.card-top{position:relative;z-index:4;background:transparent;height:164px;padding:20px 30px 14px;border-bottom:0;color:#fff5e2}.rebel .card-top{background:transparent}.faction-line{display:flex;align-items:center;gap:10px;font-size:13px;line-height:20px;letter-spacing:3px;color:var(--light);text-transform:uppercase}.faction-symbol{width:23px;height:23px;fill:none;stroke:currentColor;stroke-width:1.6}.card-number{position:absolute;right:22px;top:18px;width:84px;height:84px;overflow:visible}.card-number circle{fill:#0b142477;stroke:#dac086;stroke-width:2}.card-number text{font:700 56px Saira;fill:#fff0ce;font-variant-numeric:tabular-nums}.card-name{font:700 55px/.95 Saira,sans-serif;letter-spacing:1px;margin:8px 0 5px;text-transform:uppercase}.card-title{max-width:330px;font-size:20px;line-height:1.22;font-weight:500;color:#e6d8ba;letter-spacing:.3px}.hero{height:514px;position:relative;background:radial-gradient(ellipse at 83% 35%,#69859b65,transparent 65%),linear-gradient(105deg,#f4ebd8 0%,#e7decc 45%,#b1b2ac 100%);overflow:hidden}.rebel .hero{background:radial-gradient(ellipse at 85% 35%,#9c654660,transparent 65%),linear-gradient(105deg,#fff0d4,#ead9bb 45%,#b59377)}.hero:before{content:"";position:absolute;inset:0;z-index:1;background:linear-gradient(90deg,#f2e8d4 0%,#f2e8d4ee 22%,#f2e8d400 64%)}.rebel .hero:before{background:linear-gradient(90deg,#f8e9cd 0%,#f8e9cdee 22%,#f8e9cd00 65%)}.figure{position:absolute;right:-14px;top:16px;width:470px;height:660px;object-fit:contain;object-position:center top;z-index:3;mask-image:linear-gradient(to right,transparent 0%,#000 40%),linear-gradient(to bottom,#000 0%,#000 78%,transparent 100%);mask-composite:intersect}.stats{position:relative;z-index:6;width:286px;padding:4px 0 0 27px;display:flex;flex-direction:column;gap:0;margin:0;list-style:none}.stats:before{content:"";position:absolute;inset:0 -20px -10px -1px;z-index:-1;background:linear-gradient(90deg,#f2e8d4 0%,#f2e8d4f5 77%,#f2e8d400 100%)}.rebel .stats:before{background:linear-gradient(90deg,#f8e9cd 0%,#f8e9cdf5 77%,#f8e9cd00 100%)}.stat{height:80px;display:flex;align-items:center;gap:18px}.stat-icon{width:76px;height:76px;flex-shrink:0;display:grid;place-items:center;border:1px solid #aa8c54;border-radius:50%;background:linear-gradient(145deg,#fff9e9,#d5c6a4);box-shadow:inset 0 0 0 4px #f8efdb,inset 0 0 0 5px #aa8c5455,0 2px 5px #3f342522;color:var(--ink)}.stat-icon svg{width:48px;height:48px;fill:none;stroke:currentColor;stroke-width:1.8;stroke-linecap:round;stroke-linejoin:round}.stat-text{display:flex;flex-direction:column;justify-content:center;min-width:0}.stat-value{display:flex;gap:10px;align-items:baseline;font:700 58px/.85 Saira,sans-serif;color:#19232a;letter-spacing:.5px;font-variant-numeric:tabular-nums}.rebel .stat-value{color:#442124}.space-command{font-size:34px;color:#5b6468}.stat-label{font-size:17px;line-height:1.12;font-weight:650;letter-spacing:.15px;margin-top:5px;color:#4c4942}.command-note{position:absolute;bottom:7px;left:30px;z-index:7;font-size:12px;color:#5c5549}.ability{position:relative;z-index:8;height:260px;padding:20px 29px 18px;background:linear-gradient(115deg,#142a3c,#0e1a28);border-top:2px solid #bfa06b;color:#fff6e7}.rebel .ability{background:linear-gradient(115deg,#5d262c,#2d1b26)}.ability-label{font-size:19px;letter-spacing:2px;color:#dfc690;margin:0 0 11px;display:flex;align-items:center;gap:10px}.ability-label:after{content:"";flex:1;height:1px;background:#c2a67355}.ability-text{font-family:Exo,sans-serif;font-size:29px;font-weight:450;line-height:1.25;margin:0;letter-spacing:-.25px}.ability-text strong{font-weight:750;color:#ffe0a0}.card-meta{position:absolute;bottom:17px;left:29px;right:29px;display:flex;justify-content:space-between;gap:12px;font-size:10px;letter-spacing:1px;text-transform:uppercase;color:#c1baa9}.card-meta span:first-child{font-size:17px;font-weight:750;letter-spacing:.6px;color:#f7e9cd}.download-links{display:flex;justify-content:center;gap:26px;flex-wrap:wrap;margin:28px 0 0}.download-links a{color:#c4cabb;font-size:13px;text-underline-offset:5px}.footer{margin:25px auto 0;max-width:1242px;color:#819198;font-size:12px;line-height:1.6}@media(max-width:1280px){.pair{grid-template-columns:600px}.page-head{max-width:600px;margin-left:auto;margin-right:auto}.page-head p{display:none}}@media(max-width:650px){.page{padding:24px 10px}.pair{display:block}.card-shell{width:100%;aspect-ratio:600/940;margin-bottom:22px;position:relative}.card-shell .card{transform-origin:top left;transform:scale(var(--card-scale,.6))}.page-head{padding:0 10px}.page-head h1{font-size:36px}.footer{padding:0 10px}.download-links{margin-top:8px}}

diff --git a/tools/build_character_card_examples.py b/tools/build_character_card_examples.py
@@ -24,8 +24,8 @@ def card(c):
     ability=html.escape(c['speciale_it']).replace('una pescata bonus','<strong>una pescata bonus</strong>')
     badge='<path d="M3 17l8 4 5-14 5 14 8-4-4 10H7z"/>' if not rebel else '<path d="M3 9l10 9 3-12 3 12 10-9-6 17H9z"/>'
     return f'''<div class="card-shell"><article class="card {'rebel' if rebel else 'imperial'}" id="{slug}" aria-label="Carta di {html.escape(c['nome'])}">
-<header class="card-top"><div class="faction-line"><svg class="faction-symbol" viewBox="0 0 32 32" aria-hidden="true">{badge}</svg><span>{'Alleanza ribelle' if rebel else 'Impero'}</span><span class="card-number">{c['nr']:02d}</span></div><h2 class="card-name">{html.escape(c['nome'])}</h2><div class="card-title">{html.escape(c['titolo_it'] or '')} · {html.escape(c['razza_en'])}</div></header>
-<div class="hero"><img class="figure" src="assets/{slug}.png" alt="{html.escape(c['nome'])}, figura intera"><ul class="stats">{''.join(rows)}</ul>{'<div class="command-note">Tra parentesi: comando spaziale</div>' if c.get('comando_spazio') is not None else ''}</div>
+<header class="card-top"><div class="faction-line"><svg class="faction-symbol" viewBox="0 0 32 32" aria-hidden="true">{badge}</svg><span>{'Alleanza ribelle' if rebel else 'Impero'}</span><svg class="card-number" viewBox="0 0 100 100" role="img" aria-label="Carta numero {c['nr']}"><circle cx="50" cy="50" r="46"/><text x="50" y="50" text-anchor="middle">{c['nr']:02d}</text></svg></div><h2 class="card-name">{html.escape(c['nome'])}</h2><div class="card-title">{html.escape(c['titolo_it'] or '')} · {html.escape(c['razza_en'])}</div></header>
+<img class="figure" src="assets/{slug}.png" alt="{html.escape(c['nome'])}, figura intera"><div class="hero"><ul class="stats">{''.join(rows)}</ul>{'<div class="command-note">Tra parentesi: comando spaziale</div>' if c.get('comando_spazio') is not None else ''}</div>
 <section class="ability"><h3 class="ability-label">ABILITÀ SPECIALE</h3><p class="ability-text">{ability}</p><div class="card-meta"><span>{'Personaggio ribelle' if rebel else 'Cavaliere imperiale'}</span><span>Freedom in the Galaxy</span></div></section></article></div>'''
 def main():
     people=json.loads((ROOT/'data/carte.json').read_text())['personaggi']
@@ -36,7 +36,8 @@ def main():
     shutil.copyfile(ROOT/'tools/templates/cards/cards.css',OUT/'cards.css')
     (OUT/'data.json').write_text(json.dumps(records,ensure_ascii=False,indent=2)+'\n')
     css_version=hashlib.sha256((OUT/'cards.css').read_bytes()).hexdigest()[:12]
-    page='''<!doctype html><html lang="it"><head><meta charset="utf-8"><meta name="viewport" content="width=device-width,initial-scale=1"><link rel="icon" href="data:,"><title>Carte personaggio · Reborn</title><link rel="stylesheet" href="cards.css"></head><body><main class="page"><header class="page-head"><div><div class="eyebrow">Freedom in the Galaxy · Reborn</div><h1>Le carte personaggio</h1></div><p>Due esempi della nuova veste grafica.<br>Valori e abilità delle carte del gioco.</p></header><div class="pair">'''+''.join(card(c) for c in records)+'''</div><nav class="download-links"><a href="redjac.png" download>Scarica Redjac</a><a href="zina-adora.png" download>Scarica Zina Adora</a><a href="../atlante/">Atlante dei pianeti</a></nav><p class="footer">Sei caratteristiche: Combattimento, Resistenza, Intelligenza, Comando, Diplomazia e Navigazione. Il valore tra parentesi indica il comando spaziale.</p></main><script>const fit=()=>document.querySelectorAll('.card-shell').forEach(el=>el.style.setProperty('--card-scale',Math.min(1,el.clientWidth/600)));new ResizeObserver(fit).observe(document.body);fit();</script></body></html>'''
+    page='''<!doctype html><html lang="it"><head><meta charset="utf-8"><meta name="viewport" content="width=device-width,initial-scale=1"><link rel="icon" href="data:,"><title>Carte personaggio · Reborn</title><link rel="stylesheet" href="cards.css"></head><body><main class="page"><header class="page-head"><div><div class="eyebrow">Freedom in the Galaxy · Reborn</div><h1>Le carte personaggio</h1></div><p>Due esempi della nuova veste grafica.<br>Valori e abilità delle carte del gioco.</p></header><div class="pair">'''+''.join(card(c) for c in records)+'''</div><nav class="download-links"><a href="redjac.png" download>Scarica Redjac</a><a href="zina-adora.png" download>Scarica Zina Adora</a><a href="../atlante/">Atlante dei pianeti</a></nav><p class="footer">Sei caratteristiche: Combattimento, Resistenza, Intelligenza, Comando, Diplomazia e Navigazione. Il valore tra parentesi indica il comando spaziale.</p></main><script>const fit=()=>document.querySelectorAll('.card-shell').forEach(el=>el.style.setProperty('--card-scale',Math.min(1,el.clientWidth/600)));new ResizeObserver(fit).observe(document.body);fit();document.fonts.ready.then(()=>{document.querySelectorAll('.card-number text').forEach(t=>{const b=t.getBBox();t.setAttribute('transform',`translate(${50-b.x-b.width/2} ${50-b.y-b.height/2})`)});window.__cardsReady=true;});</script></body></html>'''
+    page=page.replace('href="redjac.png"','href="redjac.png?v='+css_version+'"').replace('href="zina-adora.png"','href="zina-adora.png?v='+css_version+'"')
     (OUT/'index.html').write_text(page.replace('href="cards.css"','href="cards.css?v='+css_version+'"'))
     print('Esempi: Redjac (imperiale), Zina Adora (ribelle); dati originali conservati.')
 if __name__=='__main__':main()

diff --git a/tests/character_card_examples.py b/tests/character_card_examples.py
@@ -15,12 +15,16 @@ try:
         page=browser.new_page(viewport={'width':1360,'height':1160},device_scale_factor=2)
         errors=[];page.on('pageerror',lambda e:errors.append(str(e)))
         page.goto(f'http://127.0.0.1:{server.server_port}/reborn/carte/')
-        page.evaluate('document.fonts.ready')
+        page.wait_for_function('window.__cardsReady===true')
         page.wait_for_function('Array.from(document.images).every(im=>im.complete&&im.naturalWidth>0)')
         records=json.loads((ROOT/'reborn/carte/data.json').read_text())
         for record,slug in zip(records,['redjac','zina-adora']):
             card=page.locator('#'+slug)
             assert card.locator('.card-title').bounding_box()['y']+card.locator('.card-title').bounding_box()['height']<card.locator('.hero').bounding_box()['y']-8
+            figure=card.locator('.figure').bounding_box();ability=card.locator('.ability').bounding_box()
+            assert figure['y']<card.locator('.hero').bounding_box()['y']
+            assert abs(figure['y']+figure['height']-ability['y'])<4
+            assert card.locator('.card-number').evaluate('el=>{const t=el.querySelector("text").getBoundingClientRect(),c=el.getBoundingClientRect();return Math.abs(t.x+t.width/2-c.x-c.width/2)<1 && Math.abs(t.y+t.height/2-c.y-c.height/2)<1}')
             assert card.locator('.stat').count()==6
             assert card.locator('.stat-icon svg').count()==6
             for stat in ['combattimento','resistenza','intelligenza','comando','diplomazia','navigazione']:
@@ -30,8 +34,9 @@ try:
             assert card.locator('.figure').evaluate('(el)=>getComputedStyle(el).maskImage.includes("linear-gradient")')
             card.screenshot(path=str(ROOT/f'reborn/carte/{slug}.png'))
         page.locator('.pair').screenshot(path=str(ROOT/'reborn/carte/esempi-carte.png'))
-        page.set_viewport_size({'width':390,'height':844});page.wait_for_timeout(300)
-        assert page.evaluate('document.documentElement.scrollWidth<=window.innerWidth')
+        for width in [1360,1290,900,650,390]:
+            page.set_viewport_size({'width':width,'height':844});page.wait_for_timeout(150)
+            assert page.evaluate('document.documentElement.scrollWidth<=window.innerWidth'),width
         assert not errors,errors
         browser.close()
         print('Due carte: dati esatti, sei icone, abilità complete, sfumature e layout mobile OK.')

diff --git a/reborn/carte/LEGGIMI.md b/reborn/carte/LEGGIMI.md
@@ -5,3 +5,5 @@ Redjac (imperiale) e Zina Adora (ribelle), con dati e abilità esatti di `data/c
 Le figure intere sono quelle già presenti in `assets_reborn/figure_intere/`, collocate a destra con sfumatura CSS verso sinistra e in basso. Il testo dell’abilità resta testo reale, non è incorporato nell’illustrazione. Numeri e icone sono indipendenti dall’arte e mantengono la leggibilità durante l’adattamento al dispositivo.
 
 Proposta limitata a due esempi: non sostituisce ancora le carte nel gioco. Ricostruzione: `python tools/build_character_card_examples.py`; verifica ed esportazione PNG: `python tests/character_card_examples.py`. Il confronto è in `esempi-carte.png`; le singole carte in `redjac.png` e `zina-adora.png`. Font e licenze sono inclusi nella cartella `fonts/`.
+
+La revisione 2 estende le figure dalla zona del titolo fino al riquadro abilità, con dissolvenza completa prima del testo. Icone, etichette, sottotitoli e testi inferiori sono ingranditi. Il numero usa un cerchio SVG; dopo il caricamento del font il suo centro visivo viene allineato geometricamente al centro del cerchio.
